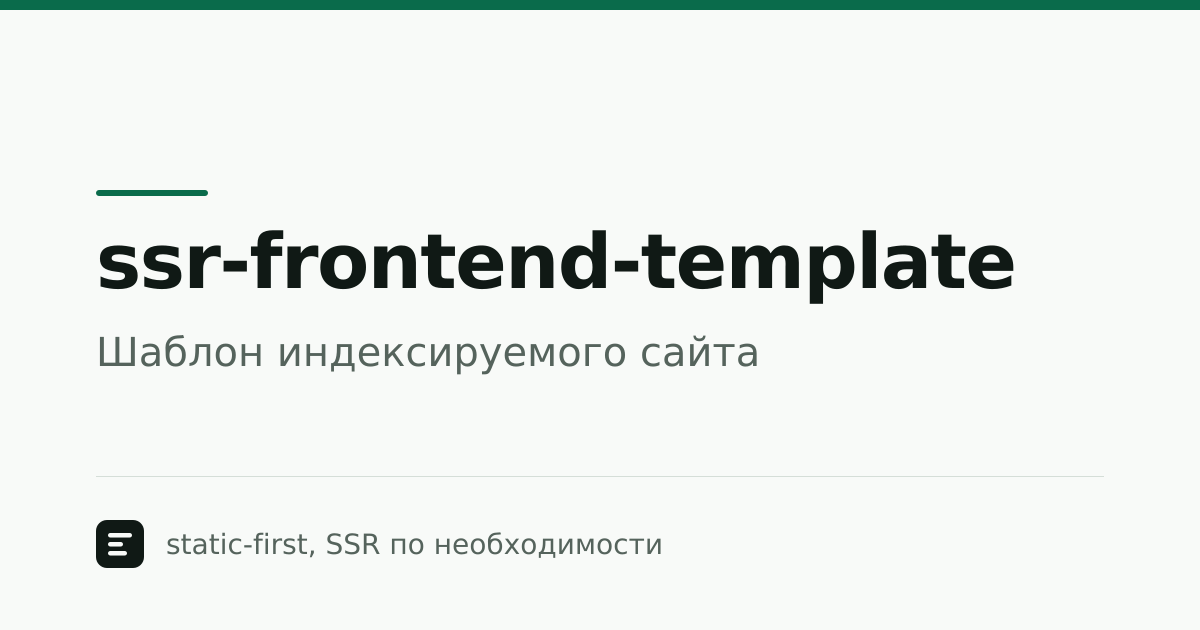
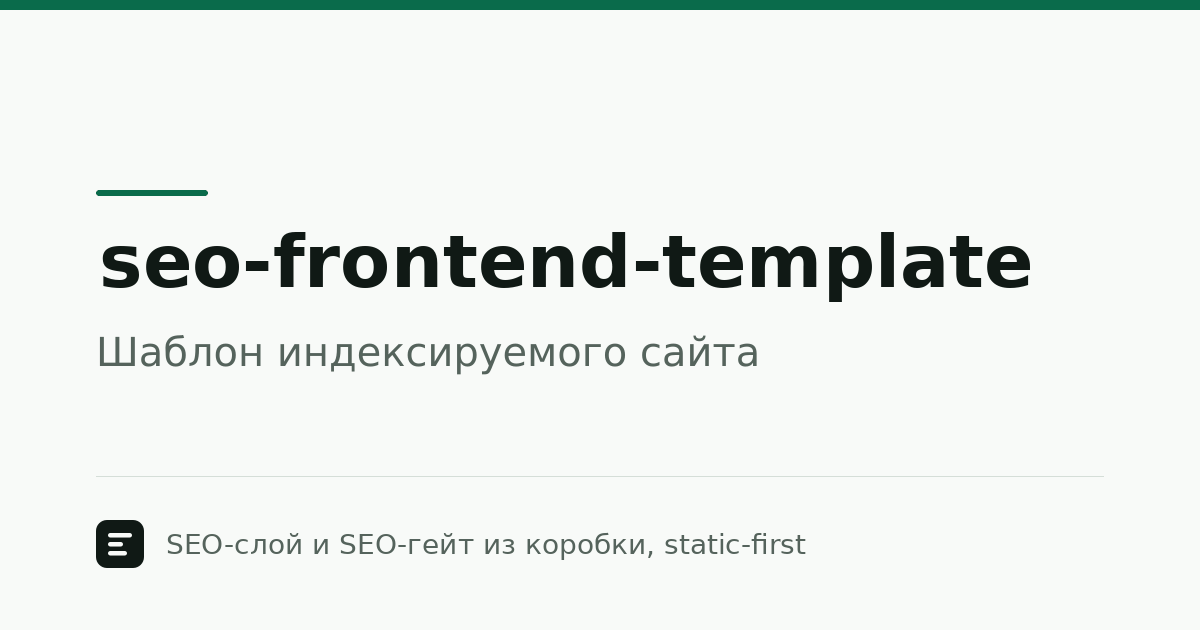
chore(template): имя шаблона — seo-frontend-template
Шаблон static-first: SSR — только у служебных маршрутов, его суть — SEO-слой
и SEO-гейт. Пакет — @stit/seo-frontend-template, origin канона —
stit-core/seo-frontend-template (TEMPLATE_NAME, CANONICAL_ORIGIN гейта),
превью og-default.png — с новым именем, лицо .template/face и фикстура канона
пересобраны check:identity --write.

Changed region(s): [[0.0617, 0.3619, 0.8633, 0.4825], [0.1233, 0.8444, 0.6783, 0.9048]]

diff --git a/src/shared/config/site.ts b/src/shared/config/site.ts
@@ -1,9 +1,9 @@
 // Идентичность сайта — демо-значения шаблона; /de-template заменяет их проектными.
-export const SITE_NAME = 'ssr-frontend-template'
+export const SITE_NAME = 'seo-frontend-template'
 
 // Профили организации в других сервисах (JSON-LD Organization.sameAs).
 export const SITE_SAME_AS: readonly string[] = [
-  'https://git.stit.tech/stit-core/ssr-frontend-template',
+  'https://git.stit.tech/stit-core/seo-frontend-template',
 ]
 
 // Логотип организации (JSON-LD Organization.logo) — из набора иконок public/.

diff --git a/.claude/skills/de-template/SKILL.md b/.claude/skills/de-template/SKILL.md
@@ -1,11 +1,11 @@
 ---
 name: de-template
-description: Развернуть форк ssr-frontend-template в самостоятельный сайт по stable-артефактам (локальный docs/stack и FSD-карта из соседнего <org>/strategy, docs/projects/<slug>/fsd/<surface>/) — переименовать пакет, подставить идентичность сайта и реквизиты оператора в политику ПДн, переписать README, вычистить демо-контент и лишнюю часть reference-набора. Применяй один раз на форке, когда стек и нужные записи FSD-карты stable и юзер хочет превратить шаблон в свой сайт, или когда /init-service доходит до этапа 3. Механика — правки под этой процедурой с показом диффа, отдельного скрипта нет. На каноническом репозитории шаблона не запускается.
+description: Развернуть форк seo-frontend-template в самостоятельный сайт по stable-артефактам (локальный docs/stack и FSD-карта из соседнего <org>/strategy, docs/projects/<slug>/fsd/<surface>/) — переименовать пакет, подставить идентичность сайта и реквизиты оператора в политику ПДн, переписать README, вычистить демо-контент и лишнюю часть reference-набора. Применяй один раз на форке, когда стек и нужные записи FSD-карты stable и юзер хочет превратить шаблон в свой сайт, или когда /init-service доходит до этапа 3. Механика — правки под этой процедурой с показом диффа, отдельного скрипта нет. На каноническом репозитории шаблона не запускается.
 ---
 
 # Skill: de-template (движок развёртывания)
 
-Превращает форк в сайт, который ничего не помнит про `ssr-frontend-template`.
+Превращает форк в сайт, который ничего не помнит про `seo-frontend-template`.
 Читает **stable**-артефакты — локальный `docs/stack` (секции `Generates`) и
 FSD-карту поверхности из соседнего `<org>/strategy`
 (`<strategy-path>/docs/projects/<slug>/fsd/<surface>/`; резолв — поля в
@@ -30,7 +30,7 @@ FSD-карту поверхности из соседнего `<org>/strategy`
 ## Gate (проверить ДО любых правок)
 
 1. **Не канонический шаблон.** `pnpm check:identity` называет репо каноном (`origin` —
-   `stit-core/ssr-frontend-template`, правило `scripts/lib/template.mjs`) → СТОП: это канонический
+   `stit-core/seo-frontend-template`, правило `scripts/lib/template.mjs`) → СТОП: это канонический
    репо или его клон без смены `origin`. Разворот на каноне краснит гейт: его `check:identity`
    держит имя пакета шаблона и пустой `docs/stack/`.
 
@@ -71,8 +71,8 @@ FSD-карту поверхности из соседнего `<org>/strategy`
 
 ```bash
 NEW_NAME=<scope из service.md>
-git grep -lF '@stit/ssr-frontend-template' -- ':!.claude' \
-  | xargs sed -i "s|@stit/ssr-frontend-template|$NEW_NAME|g"
+git grep -lF '@stit/seo-frontend-template' -- ':!.claude' \
+  | xargs sed -i "s|@stit/seo-frontend-template|$NEW_NAME|g"
 ```
 
 `.claude/skills/**` из замены исключён намеренно: имя шаблона там — **триггер**

diff --git a/docs/reference/ecosystem.md b/docs/reference/ecosystem.md
@@ -6,7 +6,7 @@
 
 ## Где этот шаблон
 
-`ssr-frontend-template` — шаблон **индексируемого сайта**: контент, который должен
+`seo-frontend-template` — шаблон **индексируемого сайта**: контент, который должен
 находиться в поиске, отдаётся первым HTML-ответом. Приложение за логином — другой
 шаблон, `spa-frontend-template`. Проект может иметь оба одновременно: сайт на корне
 домена, приложение на `app.${DOMAIN}`.
@@ -25,7 +25,7 @@
 ~/git/<org>/
 ├─ strategy/   ← business-strategy-template
 ├─ infra/      ← project-infra-template-compose
-├─ site/       ← ssr-frontend-template (этот репо)
+├─ site/       ← seo-frontend-template (этот репо)
 ├─ frontend/   ← spa-frontend-template (опционально)
 ├─ backend/    ← go-backend-template (опционально)
 ├─ <bot>/      ← telegram-bot-template (опционально)
@@ -38,7 +38,7 @@
 | `project-infra-template-compose` → `<org>/infra` | runtime проекта (docker-compose на VPS) и **операционный хаб**: общий план, рассылка агентов по сиблингам, выкатка тегов (`make bump`) |
 | `go-backend-template` → `<org>/backend` | Go-сервис: HTTP API и данные — если сайту нужны данные извне |
 | `spa-frontend-template` → `<org>/frontend` | React SPA (кабинет, всё за логином) |
-| `ssr-frontend-template` → `<org>/site` | **этот репо**: Astro SSR-сайт — контент, маршруты, SEO, форма, Docker-образ |
+| `seo-frontend-template` → `<org>/site` | **этот репо**: Astro SEO-сайт — контент, маршруты, SEO, форма, Docker-образ |
 | `telegram-bot-template` → `<org>/<bot>` | Telegram-бот (Python, aiogram) |
 | `mobile-template` → `<org>/mobile` | KMP-приложение Android + iOS; релиз — в магазины |
 

diff --git a/.claude/skills/init-service/SKILL.md b/.claude/skills/init-service/SKILL.md
@@ -1,6 +1,6 @@
 ---
 name: init-service
-description: Оркестратор онбординга форка ssr-frontend-template — ведёт путь форк → привязка к FSD-карте из соседнего <org>/strategy (её проектирует там /fsd-deep-dive) → стек (/stack-deep-dive) → /de-template → /scaffold своих страниц и коллекций, пока проект не перестанет помнить про шаблон. Применяй на свежем форке (pnpm check:identity красный: имя пакета шаблона, демо-идентичность и демо-факты оператора на месте) и когда юзер спрашивает, как превратить шаблон в свой сайт или с чего начать. Сам не проектирует и не де-темплейтит — чейнит специализированные скиллы по порядку.
+description: Оркестратор онбординга форка seo-frontend-template — ведёт путь форк → привязка к FSD-карте из соседнего <org>/strategy (её проектирует там /fsd-deep-dive) → стек (/stack-deep-dive) → /de-template → /scaffold своих страниц и коллекций, пока проект не перестанет помнить про шаблон. Применяй на свежем форке (pnpm check:identity красный: имя пакета шаблона, демо-идентичность и демо-факты оператора на месте) и когда юзер спрашивает, как превратить шаблон в свой сайт или с чего начать. Сам не проектирует и не де-темплейтит — чейнит специализированные скиллы по порядку.
 ---
 
 # Skill: init-service (онбординг-оркестратор)

diff --git a/README.md b/README.md
@@ -1,8 +1,8 @@
 <div align="center">
 
-# ssr-frontend-template
+# seo-frontend-template
 
-### Шаблон индексируемого сайта: static-first, SSR по необходимости
+### Шаблон индексируемого сайта: SEO-слой и SEO-гейт из коробки, static-first
 
 Astro 7 + Node-адаптер, Feature-Sliced Design под линтером, JavaScript — только
 острова по реестру, один Docker-образ на все среды. Приложение за логином —
@@ -16,7 +16,7 @@ Astro 7 + Node-адаптер, Feature-Sliced Design под линтером, Ja
 
 </div>
 
-> Разработка идёт в приватном Gitea (`git.stit.tech/stit-core/ssr-frontend-template`), публичное зеркало — [github.com/stit-core/ssr-frontend-template](https://github.com/stit-core/ssr-frontend-template). Как с ним работать вне инфраструктуры stit — в [профиле stit-core](https://github.com/stit-core).
+> Разработка идёт в приватном Gitea (`git.stit.tech/stit-core/seo-frontend-template`), публичное зеркало — [github.com/stit-core/seo-frontend-template](https://github.com/stit-core/seo-frontend-template). Как с ним работать вне инфраструктуры stit — в [профиле stit-core](https://github.com/stit-core).
 
 ---
 

diff --git a/.claude/plans/audit-program.md b/.claude/plans/audit-program.md
@@ -252,7 +252,7 @@ strategy: слоя страницы, пакета дизайна и `ready.yaml`
   try/catch — на методе `TRACE` и userinfo в `Host` слушатель бросает, и без перехвата процесс завершается;
   сообщить в withastro/astro. Перехват в `docker/server.mjs` и его снятие — бэклог `adapter-request-throw`.
 - `stit-public` (владелец): репозиторий витрины в `git.stit.tech` не найден; если витрина жива — строка сайта в
-  таблице шаблонов и roadmap (`ssr-frontend-template`: индексируемый сайт, Astro · Node · SEO-гейт),
+  таблице шаблонов и roadmap (`seo-frontend-template`: индексируемый сайт, Astro · Node · SEO-гейт),
   `project-docs-template` → `business-strategy-template`.
 - strategy → публичный `github` (владелец): `main` и тег `v0.2.0` лежат в приватном `origin`; публикация в
   публичный remote — его решением.

diff --git a/.claude/skills/plan/references/repo.md b/.claude/skills/plan/references/repo.md
@@ -1,6 +1,6 @@
-# Профиль репо для /plan — ssr-frontend-template
+# Профиль репо для /plan — seo-frontend-template
 
-- **Роль:** сервис — Astro SSR-сайт (`<org>/site`). Работа приходит фазой программы из хаба
+- **Роль:** сервис — Astro SEO-сайт (`<org>/site`). Работа приходит фазой программы из хаба
   `<org>/infra` (`parent: infra:<slug>`) или прямым заходом. Итог — образ в registry (`/release`);
   выкатка тега — только из хаба (`make bump SVC=site`).
 - **Гейт перед «готово»:** `pnpm check` (состав — rule `tests-pipeline` § Gate).

diff --git a/.claude/skills/stack-deep-dive/references/field-checklists.md b/.claude/skills/stack-deep-dive/references/field-checklists.md
@@ -20,7 +20,7 @@ stable-артефакта сверяет `pnpm check:stack`.
 из `Домены` → `seo.md § Идентичность` и `SITE_URL`; `project-slug`/`strategy-path`/`surface`
 — резолв FSD-карты для `/scaffold` и `/de-template`.
 
-**Anti-patterns**: имя пакета осталось `@stit/ssr-frontend-template`; теги `:latest`/`:edge`;
+**Anti-patterns**: имя пакета осталось `@stit/seo-frontend-template`; теги `:latest`/`:edge`;
 два «канонических» хоста.
 
 ---

diff --git a/.gate-fixtures/identity/fork/docs/notes.md b/.gate-fixtures/identity/fork/docs/notes.md
@@ -1,4 +1,4 @@
 # Заметки форка
 
-Не имя шаблона: website-template и ssr-frontend-templates — другие слова. Не лицо: срок 30 дней и часы
+Не имя шаблона: website-template и seo-frontend-templates — другие слова. Не лицо: срок 30 дней и часы
 Пн–Пт, 10:00–19:00 — такие же у любого сайта.

diff --git a/.gate-fixtures/identity/traces/README.md b/.gate-fixtures/identity/traces/README.md
@@ -1,3 +1,3 @@
 # Сайт «Ромашка»
 
-Сайт студии «Ромашка», собран из ssr-frontend-template. Оператор в подвале остался шаблонным: ООО «Пример».
+Сайт студии «Ромашка», собран из seo-frontend-template. Оператор в подвале остался шаблонным: ООО «Пример».
